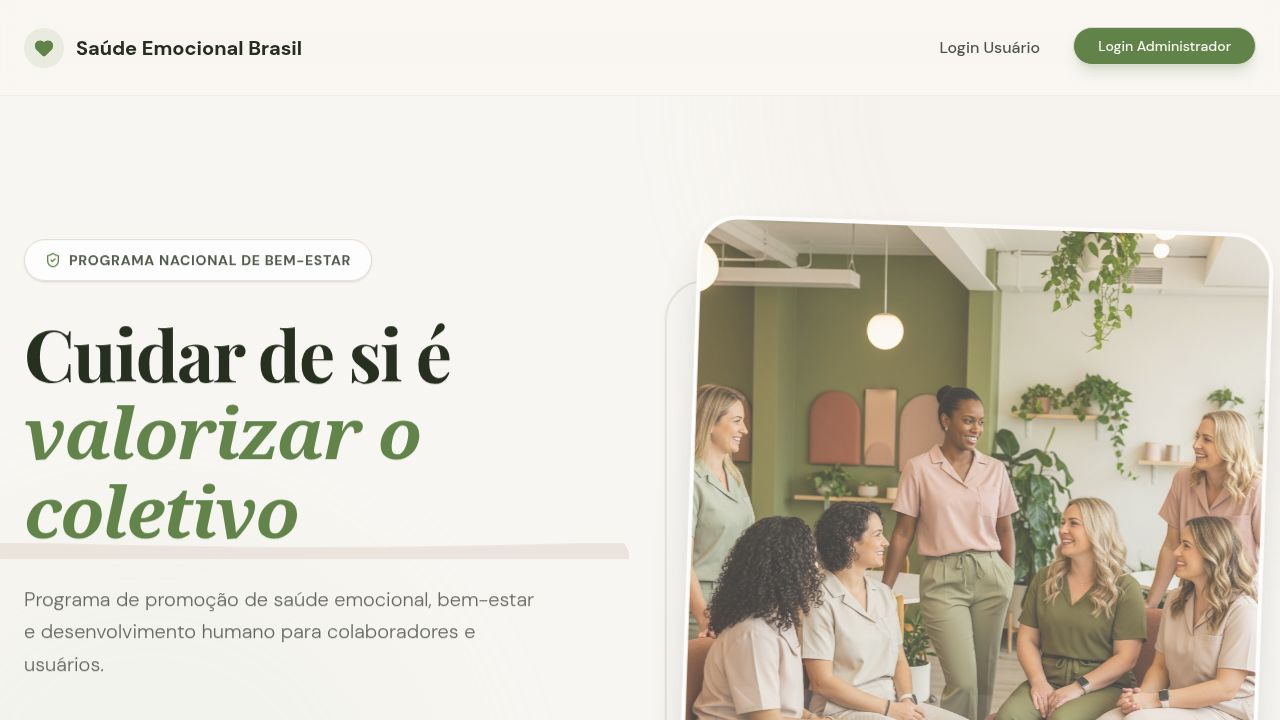
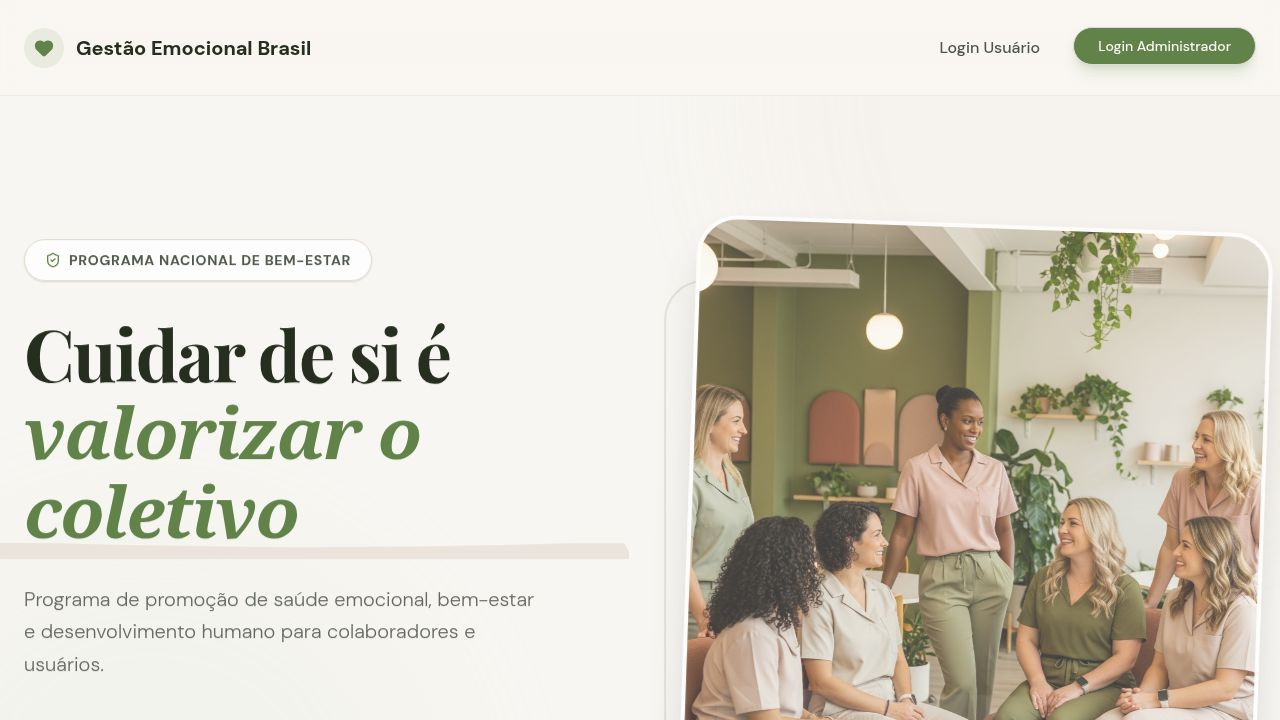
Update platform branding and content to focus on workplace emotional management
Rebrands the platform to "Gestão Emocional Brasil", updates meta tags, and refactors featured video content to align with corporate emotional management themes.

Replit-Commit-Author: Agent
Replit-Commit-Session-Id: 4cc987fa-519f-4bd8-822d-c3cd19681768
Replit-Commit-Checkpoint-Type: full_checkpoint
Replit-Commit-Event-Id: beac94a3-2a28-4470-9dba-c9c1faecd1c5
Replit-Commit-Screenshot-Url: https://storage.googleapis.com/screenshot-production-us-central1/67695f3d-8801-4f3e-8069-46e3bb012fd4/4cc987fa-519f-4bd8-822d-c3cd19681768/sSG4mrk
Replit-Helium-Checkpoint-Created: true

diff --git a/client/src/App.tsx b/client/src/App.tsx
@@ -71,7 +71,7 @@ const Landing = () => (
         <div className="w-10 h-10 bg-primary/10 rounded-full flex items-center justify-center">
           <Heart className="w-5 h-5 fill-primary text-primary" />
         </div>
-        Saúde Emocional Brasil
+        Gestão Emocional Brasil
       </div>
       <div className="space-x-4 hidden md:flex">
         <Link href="/login">
@@ -207,9 +207,9 @@ const Landing = () => (
 
           <div className="grid md:grid-cols-3 gap-8">
             {[
-              { id: 1, title: "Técnicas de Respiração", img: "https://images.unsplash.com/photo-1506126613408-eca07ce68773?w=800&q=80" },
-              { id: 2, title: "Sono Reparador", img: sleepImage },
-              { id: 3, title: "Atenção Plena no Trabalho", img: "https://images.unsplash.com/photo-1517048676732-d65bc937f952?w=800&q=80" }
+              { id: 1, title: "Gestão emocional no ambiente de trabalho", img: "https://images.unsplash.com/photo-1542744173-8e7e53415bb0?w=800&q=80" },
+              { id: 2, title: "Saúde emocional e desempenho profissional", img: "https://images.unsplash.com/photo-1573496359142-b8d87734a5a2?w=800&q=80" },
+              { id: 3, title: "Como lidar com pressão e conflitos", img: "https://images.unsplash.com/photo-1531403009284-440f080d1e12?w=800&q=80" }
             ].map((video) => (
               <Card key={video.id} className="overflow-hidden border-0 shadow-lg group cursor-pointer hover:shadow-2xl transition-all duration-300 bg-card rounded-2xl">
                 <div className="relative aspect-video bg-muted overflow-hidden">
@@ -226,13 +226,13 @@ const Landing = () => (
                 </div>
                 <CardContent className="p-6">
                   <div className="text-xs font-bold text-primary mb-2 uppercase tracking-wide flex items-center gap-2">
-                    <span className="w-2 h-2 rounded-full bg-secondary"></span> Bem-estar
+                    <span className="w-2 h-2 rounded-full bg-secondary"></span> Gestão Emocional
                   </div>
                   <h3 className="font-heading font-bold text-xl leading-tight mb-3 text-foreground group-hover:text-primary transition-colors">
                     {video.title}
                   </h3>
                   <p className="text-muted-foreground text-sm line-clamp-2 leading-relaxed">
-                    Aprenda práticas simples e eficazes para melhorar sua qualidade de vida e produtividade.
+                    Conteúdo estratégico para desenvolvimento profissional e equilíbrio emocional no trabalho.
                   </p>
                 </CardContent>
               </Card>
@@ -332,10 +332,10 @@ const Landing = () => (
         <div className="col-span-1 md:col-span-2 space-y-6">
           <div className="flex items-center gap-3 font-heading text-2xl font-bold text-white">
             <Heart className="w-8 h-8 fill-primary text-primary" />
-            Saúde Emocional Brasil
+            Gestão Emocional Brasil
           </div>
           <p className="max-w-sm leading-relaxed opacity-70 text-base">
-            Programa nacional focado na promoção de saúde, bem-estar e desenvolvimento humano.
+            Programa nacional focado na promoção de saúde, gestão emocional e desenvolvimento humano.
           </p>
         </div>
         <div>
@@ -357,7 +357,7 @@ const Landing = () => (
         </div>
       </div>
       <div className="border-t border-white/10 pt-8 text-center opacity-50">
-        <p>© 2025 Consultoria Saúde Emocional Brasil - Kaká Ribeiro. Todos os direitos reservados.</p>
+        <p>© 2025 Consultoria Gestão Emocional Brasil - Kaká Ribeiro. Todos os direitos reservados.</p>
       </div>
     </footer>
   </div>
@@ -399,7 +399,7 @@ const StudentDashboard = () => (
       <div className="flex flex-col md:flex-row justify-between items-start md:items-center gap-4">
         <div>
           <h1 className="text-3xl font-heading font-bold text-foreground">Olá, Mariana</h1>
-          <p className="text-muted-foreground mt-1">Bem-vinda ao programa "Saúde Emocional Brasil".</p>
+          <p className="text-muted-foreground mt-1">Bem-vinda ao programa "Gestão Emocional Brasil".</p>
         </div>
         <div className="bg-primary/10 text-primary px-4 py-2 rounded-lg font-medium text-sm flex items-center gap-2">
           <Brain size={18} /> Carga Horária Total: 24h

diff --git a/client/src/components/layout/auth-layout.tsx b/client/src/components/layout/auth-layout.tsx
@@ -18,16 +18,16 @@ export default function AuthLayout({ children }: { children: React.ReactNode }) 
           <div className="w-12 h-12 rounded-xl bg-primary flex items-center justify-center text-white shadow-lg">
             <Heart size={24} className="fill-white" />
           </div>
-          <span className="font-heading font-bold text-2xl tracking-tight">Saúde Emocional Brasil</span>
+          <span className="font-heading font-bold text-2xl tracking-tight">Gestão Emocional Brasil</span>
         </div>
 
         <div className="relative z-10 max-w-md space-y-6">
           <h2 className="font-heading text-4xl leading-tight">
-            Programa de Saúde Emocional <br/>
+            Programa de Gestão Emocional <br/>
             <span className="text-primary">e Bem-Estar</span>
           </h2>
           <p className="text-lg text-sidebar-foreground/80 leading-relaxed">
-            "Ações estruturadas de cuidado e educação em saúde emocional são essenciais para a prevenção do adoecimento e fortalecimento do clima organizacional."
+            "Ações estruturadas de cuidado e educação em gestão emocional são essenciais para a prevenção do adoecimento e fortalecimento do clima organizacional."
           </p>
           <div className="pt-4 flex gap-4 text-sm font-medium opacity-70">
             <span className="flex items-center gap-2">✓ Autocuidado</span>
@@ -60,7 +60,7 @@ export default function AuthLayout({ children }: { children: React.ReactNode }) 
         <div className="w-full max-w-sm space-y-8 animate-in fade-in slide-in-from-bottom-4 duration-700 mt-12 lg:mt-0">
           {/* Mobile Heading */}
           <div className="lg:hidden text-center mb-8">
-            <h2 className="font-heading font-bold text-xl text-primary mb-2">Saúde Emocional Brasil</h2>
+            <h2 className="font-heading font-bold text-xl text-primary mb-2">Gestão Emocional Brasil</h2>
             <p className="text-sm text-muted-foreground">Programa Nacional de Bem-Estar</p>
           </div>
 

diff --git a/client/index.html b/client/index.html
@@ -4,11 +4,11 @@
     <meta charset="UTF-8" />
     <meta name="viewport" content="width=device-width, initial-scale=1.0, maximum-scale=1" />
 
-    <title>Saúde Emocional Brasil</title>
-    <meta name="description" content="Programa de Saúde Emocional e Bem-Estar" />
+    <title>Gestão Emocional Brasil</title>
+    <meta name="description" content="Programa de Gestão Emocional e Bem-Estar" />
     
-    <meta property="og:title" content="Saúde Emocional Brasil" />
-    <meta property="og:description" content="Programa de promoção de saúde emocional e bem-estar." />
+    <meta property="og:title" content="Gestão Emocional Brasil" />
+    <meta property="og:description" content="Programa de promoção de saúde emocional e bem-estar corporativo." />
     <meta property="og:type" content="website" />
     <meta name="twitter:card" content="summary_large_image" />
 

diff --git a/client/src/components/layout/student-layout.tsx b/client/src/components/layout/student-layout.tsx
@@ -70,7 +70,7 @@ function Sidebar({ isOpen, setIsOpen }: SidebarProps) {
               <div className="w-10 h-10 rounded-xl bg-primary flex items-center justify-center text-white shrink-0">
                 <Heart size={20} className="fill-white" />
               </div>
-              <span>Saúde Emocional Brasil</span>
+              <span>Gestão Emocional Brasil</span>
             </div>
             <Button 
               variant="ghost" 
